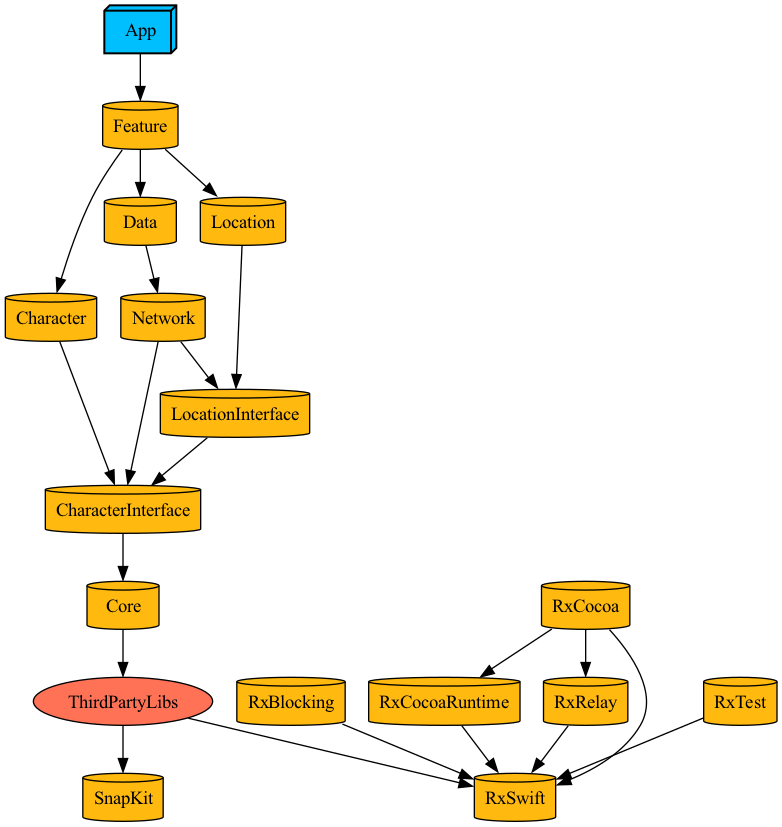
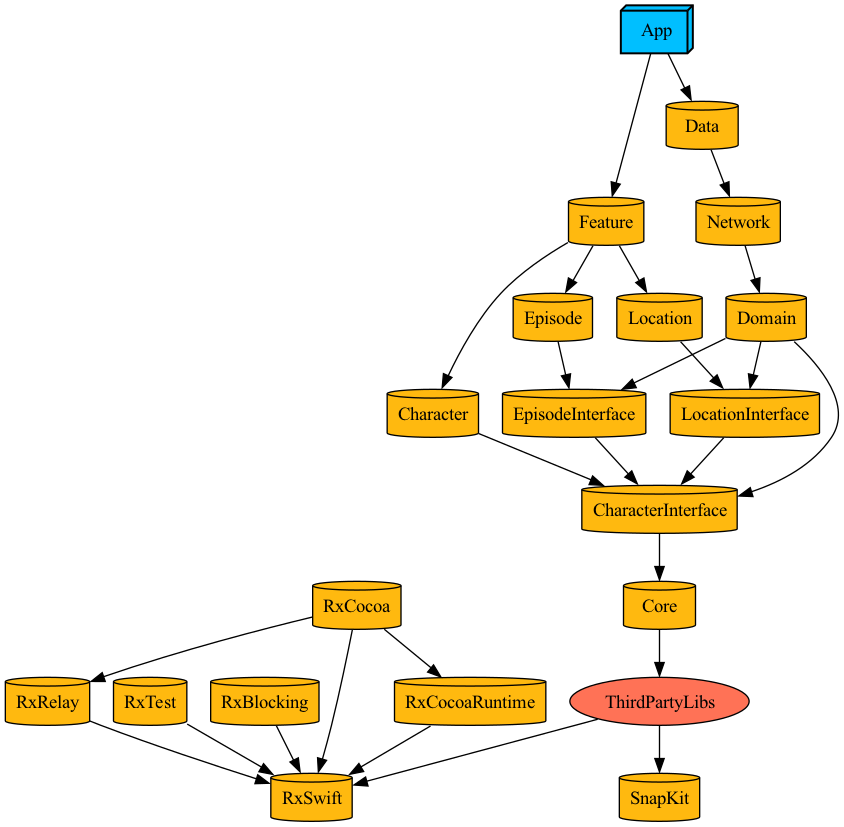
Add - Domain Layer 수정 필요

diff --git a/Plugins/RickAndMortyTuist/ProjectDescriptionHelpers/uFeature.swift b/Plugins/RickAndMortyTuist/ProjectDescriptionHelpers/uFeature.swift
@@ -15,6 +15,7 @@ public enum Feature: String {
   case Episode = "Episode"
   case App = "App"
   case Data = "Data"
+  case Domain = "Domain"
 
   case Network
   case ThirdPartyLibs
@@ -24,6 +25,7 @@ public enum Feature: String {
 public enum ModulePath {
   case App
   case Core
+  case Domain
   case Data
   case Features
   case Modules(ModuleName)
@@ -44,6 +46,8 @@ public enum ModulePath {
       return "Data"
     case .Features:
       return "Features"
+    case .Domain:
+      return "Domain"
     case .Modules(let moduleName):
       return "Modules/\(moduleName.rawValue)"
     }
@@ -98,5 +102,11 @@ public extension TargetDependency {
 
   static var core: ProjectDescription.TargetDependency {
     .module(implementation: .Core, pathName: .Core)
+  }
+  static var domain: TargetDependency {
+    .module(implementation: .Domain, pathName: .Domain)
+  }
+  static var data: TargetDependency {
+    .module(implementation: .Data, pathName: .Data)
   }
 }

diff --git a/Projects/App/Sources/SceneDelegate+Register.swift b/Projects/App/Sources/SceneDelegate+Register.swift
@@ -27,7 +27,17 @@ extension AppDelegate {
   func registerDependencies() {
     container.register(
       interface: FetchEpisodeUseCaseInterface.self,
-      implement: FetchEpisodeUseCase)
+      implement: {
+        FetchRMEpisodeUseCase(
+          repository: EpisodeRepository(
+            episodeService: DefaultEpisodeService(
+              endPoint: APIComponent(endPoint: .episode)
+            )
+          )
+        )
+      }
+    )
+
     container.register(
       interface: FetchCharacterUseCaseInterface.self,
       implement: {

diff --git a/Projects/Domain/Project.swift b/Projects/Domain/Project.swift
@@ -1,3 +1,4 @@
+
 //
 //  Project.swift
 //  Config
@@ -10,15 +11,15 @@ import ProjectDescriptionHelpers
 import MyPlugin
 
 let project = Project(
-  name: Feature.App.rawValue,
+  name: Feature.Domain.rawValue,
   targets: [
-    .makeApp(
-      name: "App",
-      sources: "Sources/**",
+    .feature(
+      implementation: .Domain,
       dependencies: [
-        .feature,
-        .data,
+        .feature(interface: .Episode),
+        .feature(interface: .Character),
+        .feature(interface: .Location),
       ]
-    )
+    ),
   ]
 )

diff --git a/Projects/Features/Project.swift b/Projects/Features/Project.swift
@@ -17,7 +17,6 @@ let project = Project(
           .feature(implementation: .Character),
           .feature(implementation: .Location),
           .feature(implementation: .Episode),
-          .module(implementation: .Data, pathName: .Data)
         ]
       )
     ]

diff --git a/Projects/Modules/Network/Project.swift b/Projects/Modules/Network/Project.swift
@@ -12,7 +12,6 @@ import MyPlugin
 let project = Project.dynamicFramework(
   name: Feature.Network.rawValue,
   dependencies: [
-    .feature(interface: .Character),
-    .feature(interface: .Location),
+    .domain
   ]
 )

diff --git a/Projects/Domain/Sources/DomainRoot.swift b/Projects/Domain/Sources/DomainRoot.swift
@@ -1,0 +1,8 @@
+//
+//  DomainRoot.swift
+//  ProjectDescriptionHelpers
+//
+//  Created by Kanghos on 2023/12/02.
+//
+
+import Foundation
